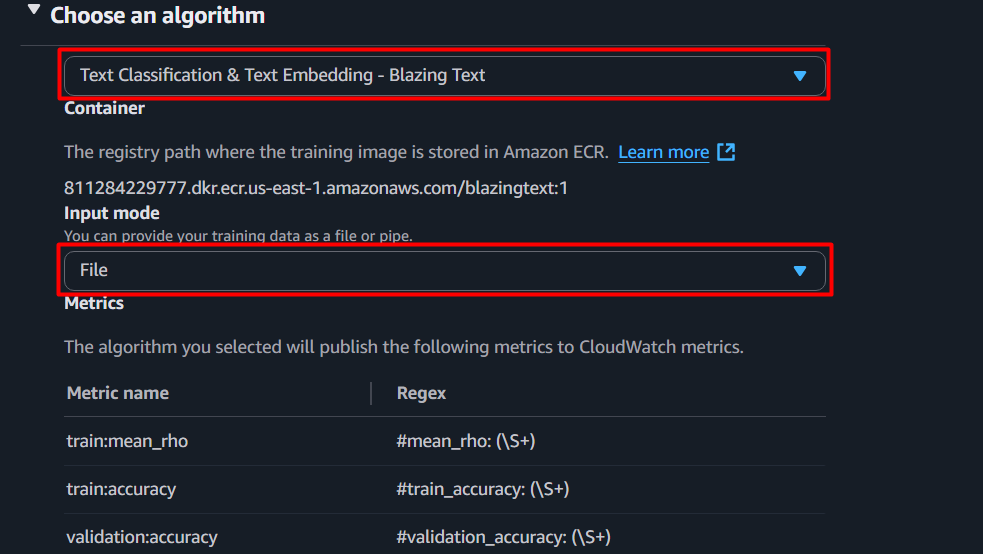
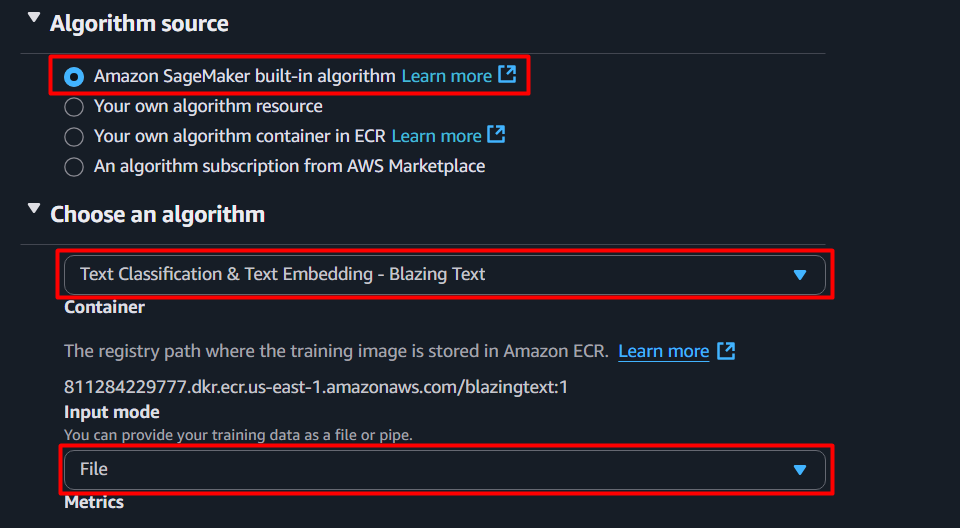
Done batch transform console tutorial

Changed region(s): [[0.0312, 0.2424, 0.875, 1.0], [0.0312, 0.0, 0.8438, 0.2121]]

diff --git a/1-sagemaker/console-tutorial.md b/1-sagemaker/console-tutorial.md
@@ -9,13 +9,15 @@
         <li><a href="#introduction">Introduction</a></li>
         <li><a href="#creating-bucket">Creating bucket</a></li>
         <li><a href="#uploading-data">Uploading data</a></li>
-      </ul>
+    </ul>
     </li>
     <li><a href="#amazon-sagemaker-ai">Amazon SageMaker AI</a>
     <ul>
         <li><a href="#processing-jobs">Processing jobs</a></li>
         <li><a href="#training-jobs">Training jobs</a></li>
-      </ul>
+        <li><a href="#endpoints">Endpoints</a></li>
+        <li><a href="#batch-transform-jobs">Batch transform jobs</a></li>
+    </ul>
     </li>
   </ol>
 </details>
@@ -36,7 +38,7 @@ First of all, you need to create a bucket in Amazon S3 to store any future files
 ### Introduction
 Amazon Simple Storage Service (Amazon S3) is an object storage service that can store almost any object needed for machine learning. That includes datasets, model artifacts, logs, and more.
 
-A [bucket](https://docs.aws.amazon.com/AmazonS3/latest/userguide/UsingBucket.html) is a container for objects (i.e., files) stored in S3. 
+An [S3 bucket](https://docs.aws.amazon.com/AmazonS3/latest/userguide/UsingBucket.html) is a container for objects (i.e., files) stored in S3. 
 
 S3 supports the folder concept as a means of grouping objects. It does this by using a shared name *prefix*. In other words, the grouped objects have names that begin with a common string. This common string, or shared prefix, is the folder name. Object names are also referred to as key names.
 
@@ -56,7 +58,7 @@ For example: `s3://example-bucket/1/2/3/example.txt`
 
 5. Scroll all the way down and select *Create bucket*.
 
-Now that you have create a bucket on AWS, you can upload any files into this storage manually or through API. Furthermore, you can create folders for organization purpose. Simply go to your bucket and click *Create folder*.
+Now that you have created a bucket on AWS, you can upload any files into this storage manually or through API. Furthermore, you can create folders to help organize your files more effectively. Simply go to your bucket and click *Create folder*.
 <p align="center"><img src="img/folder.png" width="80%"></p>
 
 ### Uploading data
@@ -79,7 +81,7 @@ Step by step, you will create a model that predicts the usefulness of a product 
 ### Processing jobs
 First of all, you need the input data in order to train the model. The [dataset](../data/reviews_Toys_and_Games_5.json.zip) you will be working with is a collection of reviews for an assortment of toys and games found on Amazon. It includes, but is not limited to, the text of the review itself as well as the number of user votes on whether or not the review was helpful.
 
-However, the dataset is inside the .zip file so you have to extract it before proceeding. Moreover, the dataset is a file containing a single JSON object per line representing a review with the following format: 
+However, the dataset is inside a .zip file so you have to extract it before proceeding. Moreover, the dataset is a file containing a single JSON object per line representing a review with the following format: 
 ```JSON
 {
  "reviewerID": "<string>",
@@ -96,7 +98,7 @@ However, the dataset is inside the .zip file so you have to extract it before pr
  "reviewTime": "<string>"
 }
 ```
-Later, you will be using *[BlazingText algorithm](https://docs.aws.amazon.com/sagemaker/latest/dg/blazingtext.html)* in training process, which is an implemention of [Word2Vec algorithm](https://en.wikipedia.org/wiki/Word2vec) optimized for SageMaker AI. Therefore, in order for this algorithm to work, you have to format the input data correctly. This is true for any other algorithm or model you work with, as each of them requires a particular type and structure of the input data. In this case, the data should only consist of plain text, with each line containing a label name followed by a sentence. Labels must be prefixed by the string `__label__`. 
+Later, you will be using [BlazingText algorithm](https://docs.aws.amazon.com/sagemaker/latest/dg/blazingtext.html) in training process, which is an implemention of [Word2Vec algorithm](https://en.wikipedia.org/wiki/Word2vec) optimized for SageMaker AI. Therefore, in order for this algorithm to work, you have to format the input data correctly. This is true for any other algorithm or model you work with, as each of them requires a particular type and structure of the input data. In this case, the data should only consist of plain text, with each line containing a label name followed by a sentence. Labels must be prefixed by the string `__label__`. 
 
 For the dataset in this exercise, you will extract the text from the field *reviewText* and generate label based on the field *helpful* for each review. If the majority of votes is helpful, assign it `__label__1`, otherwise `__label__2`. If there is no majority or the review text is empty, drop the review from consideration. Then, cut the text into individual sentences, while ensuring that each sentence retains the original label from the review. When splitting using the character ".", make sure that no empty sentences are created, since reviews usually contain an ellipsis "..." or more. Your input data should look something like this:
 
@@ -120,9 +122,8 @@ All of the procedures mentioned above and more are collectively called *data pre
 
 4. In the *Job name* field, enter a unique name for your processing job.
 5. In the *Container* field, enter registry path of a processing image stored in Amazon ECR. For this exercise, you will use scikit-learn's image.\
-To find the registry path, go to [Docker Registry Paths and Example Code](https://docs.aws.amazon.com/sagemaker/latest/dg-ecr-paths/sagemaker-algo-docker-registry-paths.html). On the left navigation sidebar, choose the AWS region that you're logging in. Then, scroll down to *Scikit-learn (algorithm)* section, you will find the registry path and the version associated. Replace `<tag>` with `[version]-cpu-py3`. For example, if you choose version 1.2-1, your registry path will be `683313688378.dkr.ecr.us-east-1.amazonaws.com/sagemaker-scikit-learn:1.2-1-cpu-py3`\
-See the illustration below.
-<p align="center"><img src="img/path.png" width="80%"></p>
+To find the registry path, go to [Docker Registry Paths and Example Code](https://docs.aws.amazon.com/sagemaker/latest/dg-ecr-paths/sagemaker-algo-docker-registry-paths.html). On the left navigation sidebar, choose the AWS region that you're logging in. Then, scroll down to *Scikit-learn (algorithm)* section, you will find the registry path and the version associated. Replace `<tag>` with `[version]-cpu-py3`. For example, if you choose version 1.2-1, your registry path will be `683313688378.dkr.ecr.us-east-1.amazonaws.com/sagemaker-scikit-learn:1.2-1-cpu-py3`
+<p align="center"><img src="img/scikit_path.png" width="80%"></p>
 
 6. Implement a Python script to unzip, format, and split the raw dataset as instructed earlier, or you can go ahead and use [hello_blaze_preprocess.py](hello_blaze_preprocess.py) provided. After that, upload the script to your S3 bucket. \
 If you decide to custom your own script, note that the processing job will copy the dataset from S3 to a local directory, prefixed with `/opt/ml/processing/`, within the container. Thus, your script should take the dataset in this directory as input instead. Additionally, it must output training set and testing set to specified local directories, also prefixed with `/opt/ml/processing/`. You will have a chance to set up these local directories in the next steps.
@@ -131,12 +132,16 @@ If you decide to custom your own script, note that the processing job will copy 
 7. Go to the *Input data configuration* field. Then specify the local path that the dataset will be downloaded into, e.g. `/opt/ml/processing/input/data`, and enter the S3 location (S3 URI) of the dataset.
 <p align="center"><img src="img/s3_location.png" width="80%"></p>
 
-8. Click on *Add input* and specify the local path, e.g. `/opt/ml/processing/input/code`, and the S3 location of your Python code.
-9. Go to the *App Specification* field. Then add `python3` as the first entrypoint and the local address to your Python script, e.g. `/opt/ml/processing/input/code/<your_script_name>`, as the second. If you use the provided code, you need to add the name of the dataset as a container argument.
+8. Click on *Add input* and specify the local path, e.g. `/opt/ml/processing/input/code`, and the S3 location of your Python script.
+9. Go to the *App Specification* field. Then add `python3` as the first entrypoint and the local address to your Python script, e.g. `/opt/ml/processing/input/code/<your_script_name>`, as the second. If you use the provided code, you need to add the name of the dataset as a container argument. \
+Under the hood, the processing job will execute a command line based on this setting to run your script within the container. Something like this:
+```
+python3 /opt/ml/processing/input/code/hello_blaze_preprocess.py review_Toys_and_Games.json.zip
+```
 <p align="center"><img src="img/app_specs.png" width="60%"></p>
 
-10.  In the *Output data configuration* field, enter the local path where your Python script saves the training set and the S3 location where you want SageMaker AI to upload.
-11.  Click on *Add input* and do the similar process for the testing set.
+10. In the *Output data configuration* field, enter the local path where your Python script saves the training set and the S3 location where you want SageMaker AI to upload.
+11. Click on *Add input* and do the similar process for the testing set.
 <p align="center"><img src="img/processing_output.png" width="60%"></p>
 
 12.  Select *Submit* at the bottom when all set.
@@ -147,7 +152,9 @@ Wait for a few minutes to see if your processing job executed successfully or no
 Your input data is now ready for use in training the model. Let's move to the next phase.
 
 ### Training jobs
-A training job in SageMaker AI is a managed execution of a training machine learning algorithm. You simply provide the dataset and configure the training job with the necessary parameters. SageMaker AI will take care of running the training process. When training has completed, the resulting model artifacts will be stored in the S3 location you specified.
+A training job in SageMaker AI is a managed execution of training a machine learning algorithm. You simply provide the dataset and configure the training job with the necessary parameters. SageMaker AI will take care of running the training process. When the job has completed, the resulting model artifact will be stored in the S3 location you specified.
+
+A model artifact is a package generated by a training job. This packaged model contains the information of parameters learned from the training process and instructions on how to effectively perform predictions, known as *inference*.
 
 After you successfully pre-processed your dataset, it is time to train a model with it. As mentioned earlier, you will use the *BlazingText algorithm* provided by SageMaker AI as your model. So to launch a training job with this algorithm, do the following:
 1. Navigate to Amazon SageMaker AI.
@@ -156,26 +163,102 @@ After you successfully pre-processed your dataset, it is time to train a model w
 
 3. Click on *Create training job* button.
 4. Enter a unique name for your training job.
-5. Select *Text Classification & Text Embedding - Blazing Text* as your algorithm and make sure the *Input mode* is *File*.
+5. Select *Amazon SageMaker built-in algorithm* for *Algorithm source* and select *Text Classification & Text Embedding - Blazing Text* as your algorithm. Make sure the *Input mode* is *File*.
 <p align="center"><img src="img/algo.png" width="60%"></p>
 
-6. Under *Resource configuration*, select *ml.m5.large* as instance type and specify 5 additional GBs of memory.
-7. Under *Stopping condition*, set *Maximum runtime* to 10 minutes. The training job will automatically stop if it exceeds this time limit.
+6. Under *Resource configuration*, select *ml.m5.large* for *Instance type* and specify 5 additional GBs of memory.
+7. Under *Stopping condition*, set *Maximum runtime* to 10 minutes. The training job will automatically stop if it exceeds this time limit. It is important that you set runtime limit for your training job because if it takes a long time, you will be charged more.
 <p align="center"><img src="img/training_config.png" width="60%"></p>
 
 8. In the *Hyperparameters* field, set *mode* to *supervised*.
-<p align="center"><img src="img/hyper_mode.png" width="80%"></p>
+<p align="center"><img src="img/hyper_mode.png" width="60%"></p>
 
-9. In the *Input data configuration* field, enter the S3 path (S3 URI) to your training set. Since the chosen algorithm only works with one type of data, plain text, you don't have to specify the content type of your input data. But if you work with other algorithms, pay attention to this.
+9. In the *Input data configuration* field, enter the S3 path (S3 URI) to your training set. Since the chosen algorithm only works with one type of data, plain text, you don't have to specify the content type of your input data. But if you work with other algorithms, pay attention to this in their documentation, as they may have different format options for training data to select.
 10. Click on *Add channel* and enter the S3 path to your testing set.
 <p align="center"><img src="img/train_set.png" width="50%"><img src="img/test_set.png" width="50%"></p>
 
 11. In the *Output data configuration* field, enter the S3 path where you want SageMaker AI to output your model artifact.
 12. All done. Click on *Create training job* to finish setting.
 
-The training job should complete within 10 minutes, then you will be able to find the model artifact generated by the job in your S3 bucket. If it fails, it is mostly due to incorrectly formatted input data or misconfiguration in the setup.
+The training job should complete within 10 minutes and then you will be able to find the model artifact generated by the job in your S3 bucket. The model is being compressed inside a .tar.gz file. If your training job fails, it is mostly due to incorrectly formatted input data or misconfiguration in the setup.
 
-Exciting! Your model is now ready to use and deploy.
+Exciting! Your model is now ready to deploy and use in production.
 
 ### Endpoints
-In SageMaker AI, an endpoint is an interface to a model in production. The endpoint allows us to send user data to the model and receives predictions back from the model-based upon that user data.
+In SageMaker AI, an endpoint serves as an Application Programming Interface (API) to a deployed model in production. It provides a [RESTful interface](https://aws.amazon.com/what-is/restful-api/) that allows you to send user data to the model and receive predictions in response, enabling real-time inference.
+
+To deploy a model, first you have to create a model object in SageMaker AI from a model artifact:
+1. Navigate to Amazon SageMaker AI.
+2. In the left navigation sidebar, go to *Inference* → *Models*.
+<p align="center"><img src="img/models.png" width="60%"></p>
+
+3. Click on *Create model* button.
+4. Give a unique name for your model object.
+5. Under *Container input options*, select *Provide model artifacts and inference image location*.
+6. Under *Model Compression Type*, select *CompressedModel* and *Use a single model*.
+7. Enter registry path where container image of your model, *BlazingText*, is stored in Amazon ECR.\
+To find it, go to [Docker Registry Paths and Example Code](https://docs.aws.amazon.com/sagemaker/latest/dg-ecr-paths/sagemaker-algo-docker-registry-paths.html). On the left navigation sidebar, choose the AWS region that you're logging in. Then, scroll down to *BlazingText (algorithm)* section, you will find the registry path and the version associated. Replace `<tag>` with version number you choose.
+<p align="center"><img src="img/blazing_path.png" width="80%"></p>
+
+8. Enter the S3 location of your model artifacts
+<p align="center"><img src="img/model_setting.png" width="80%"></p>
+
+9. Scroll down and click on *Create model* button.
+
+Now that you have a model object in SageMaker AI, let's deploy it with an endpoint:
+1. Select the model you want to deploy (don't click on its name) and click on *Create endpoint* button.
+<p align="center"><img src="img/deploy.png"></p>
+
+2. Enter a unique name for your endpoint.
+3. If you have an existing endpoint configuration for your trained model, then use it and create an endpoint right away. Otherwise, create new one and follow the next steps.
+3. Specify a unique name for your new endpoint configuration.
+4. Under *Type of endpoint*, select *Provisioned*.
+<p align="center"><img src="img/endpoint_config.png" width="60%"></p>
+
+5. If you want your endpoint to handle prediction request asynchronously, turn on *Async Invocation Config* and provide neccessary information. If you also want your endpoint to save prediction request and response, switch *Enable data capture* on and fill in neccessary information. \
+Otherwise, click on *Create endpoint configuration* and then *Create endpoint* at the bottom.
+
+Wait for a few moment. Once the endpoint status changes to *InService*, you can then interact with your deployed endpoint and make real-time predictions on new data. This can be done through AWS SDK, such as `boto3` or `sagemaker` modules in Python, which is covered in [SDK tutorial](sdk-tutorial.ipynb). Alternatively, you can integrate your endpoint with other AWS services like AWS Lambda and AWS Step Functions, which will be covered later.
+
+When sending a prediction request to your endpoint, make sure that the input data adheres to the inference data format accepted by the algorithm you are using. For BlazingText algorithm, the inference data requires a different structure from the training data, as found in [its documentation](https://docs.aws.amazon.com/sagemaker/latest/dg/blazingtext.html). You will go over this in the next section. It's essential to consult the documentation of your select algorithm for the data format requirements and other important information.
+
+<ins>**Please note**</ins>: Creating an endpoint and keeping it active **does incur costs** on your AWS account, even if it's idle. To avoid unwanted charges, delete any endpoint right after you finish your experiments, or when you are stepping away.
+
+### Batch transform jobs
+Batch Transform is a compute job that performs inference using your trained model on large datasets. A batch transform job is ideal for large-scale predictions where low latency is not a priority. This differs from an endpoint in that endpoints service real-time, individual user requests for inference over time.
+
+To deploy a model using batch transform:
+1. Navigate to Amazon SageMaker AI.
+2. In the left navigation sidebar, go to *Inference* → *Batch transform jobs*.
+<p align="center"><img src="img/batch_job.png" width="60%"></p>
+
+3. Click on *Create batch transform job* button.
+4. Give a unique name for your batch transform job.
+5. Click on *Find model* and select the model you want to deploy. If you haven't created a model object in SageMaker AI or you want to have a new one, go back to the previous section for tutorial.
+<p align="center"><img src="img/select_model.png" width="80%"></p>
+
+6. Select *ml.m5.large* for *Instance type* and enter `1` for *Instance count*.
+7. In the *Input data configuration* field, select *Line* for *Split type*. This tells SageMaker AI to break and process the input file line by line, which can paralellize the job and improve performance.
+8. Enter `application/json` for *Content type*, as this is the required data format for inference by BlazingText algorithm. If you are using a trained model from a different algorithm, be sure to check and specify correctly the required input format for inference in its documentation.
+9. Create a .json file to be your inference data and write down a list of custom review sentences, as many as you like, in the following format: 
+```JSON
+{
+  "instances": [
+    "Review sentence #1.",
+    "Review sentence #2.",
+    "Review sentence #3.",
+    ...
+  ]
+}
+```
+10. Upload the .json file to your S3 bucket and enter its S3 location.
+<p align="center"><img src="img/batch_input.png" width="60%"></p>
+
+11. In the *Output data configuration* field, enter the S3 path where the prediction result will be located. Then, select *Line* for *Assemble with* to assemble the predictions into a single output file after the input file has been processed line by line.
+<p align="center"><img src="img/batch_output.png" width="60%"></p>
+
+12. Click on *Create job* button at the bottom.
+
+Within a few minutes, your batch transform job will be done and you can find the result in your S3 bucket. It's an .out file containing a label prediction associated with a probability for each review sentence. Open it as a text file and you will see. If the job failed, please double-check its configuration and the format of your inference data.
+
+You may notice how poorly the model performs text classification. Since this tutorial only focuses on using AWS Services, it does not go over any tips on how to improve your model. For that, you may need to train a new model and fine-tune the hyperparameters, or experiment with different algorithms.

diff --git a/README.md b/README.md
@@ -65,7 +65,7 @@ First, you need to clone this repository to your Amazon SageMaker AI:
 9. That's it. Let's finalize the process.
 
 When the notebook status shows _InService_, select _Open Jupyer_ and begin your learning. \
-<u>**Please note**</u>, to completely shut down your notebook instances in SageMaker AI, navigate to the _Notebook instances_ page, select the running notebook, and stop it through the _Actions_ dropdown list. This is extremely important to avoid **unwanted charges**.
+<ins>**Please note**</ins>: To completely shut down your notebook instances in SageMaker AI, navigate to the _Notebook instances_ page, select the running notebook, and stop it through the _Actions_ dropdown list. This is extremely important to avoid **unwanted charges**.
 ![stop](img/stop_notebook.png)
 
 ## Attention
